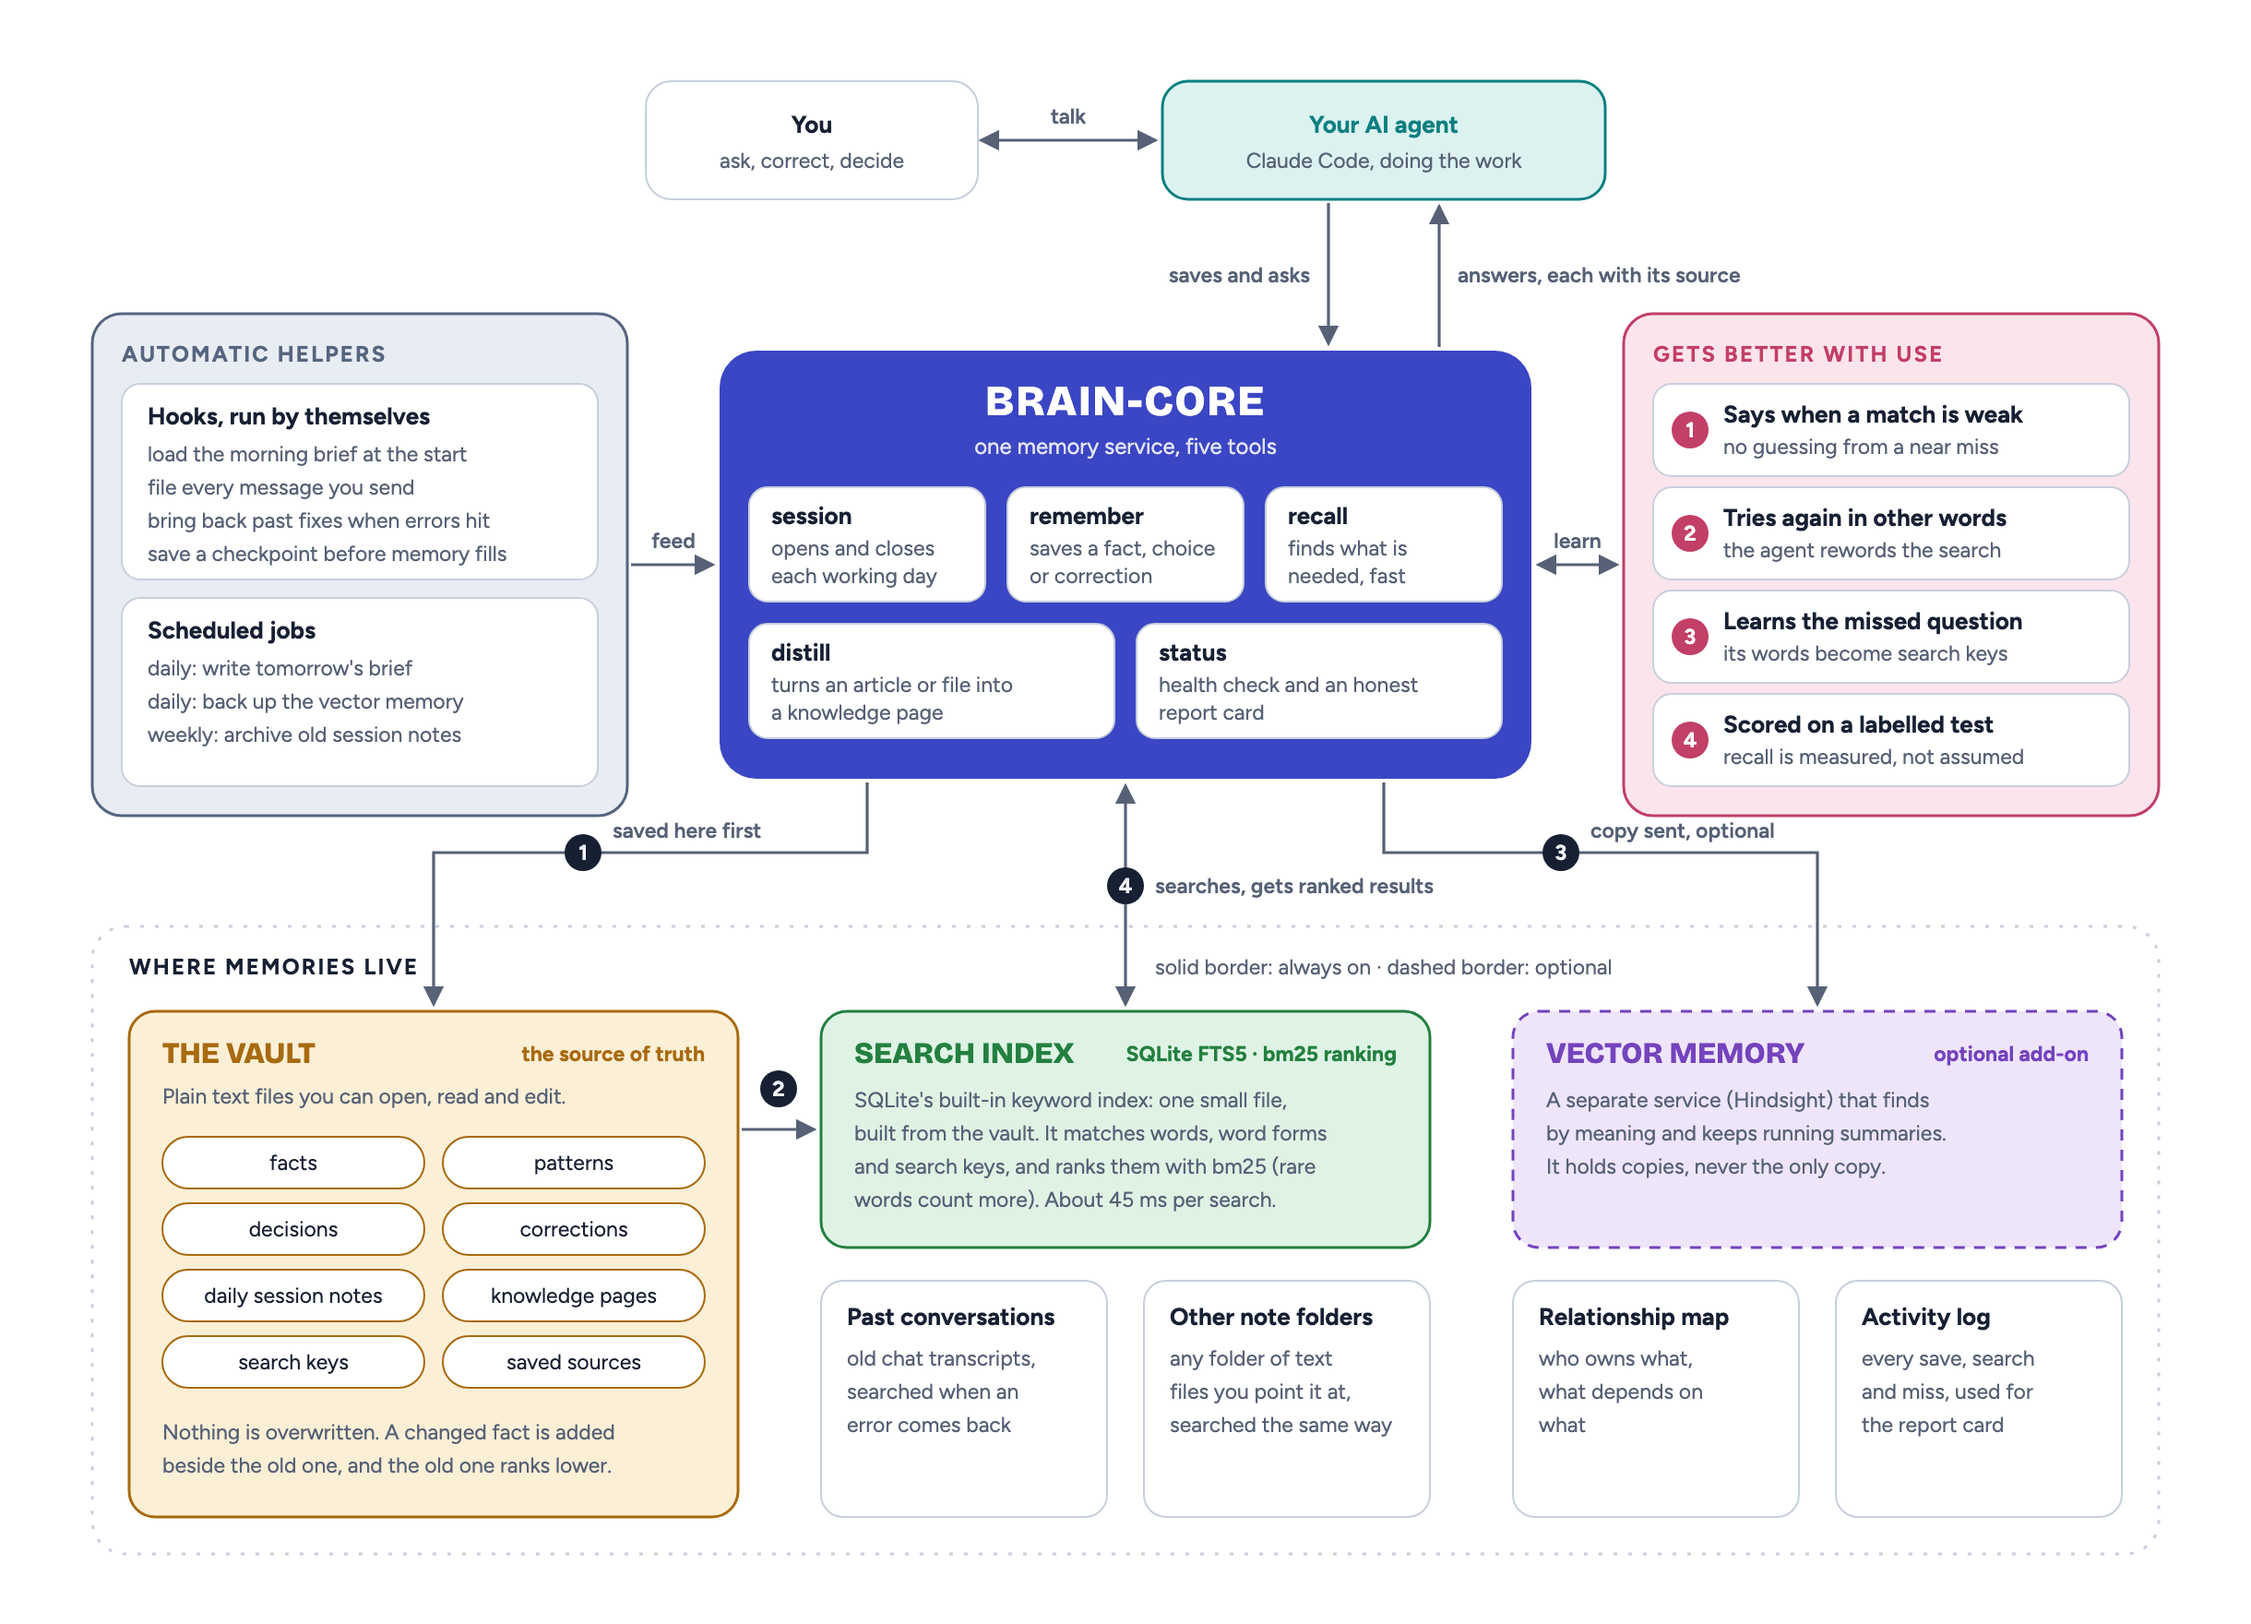
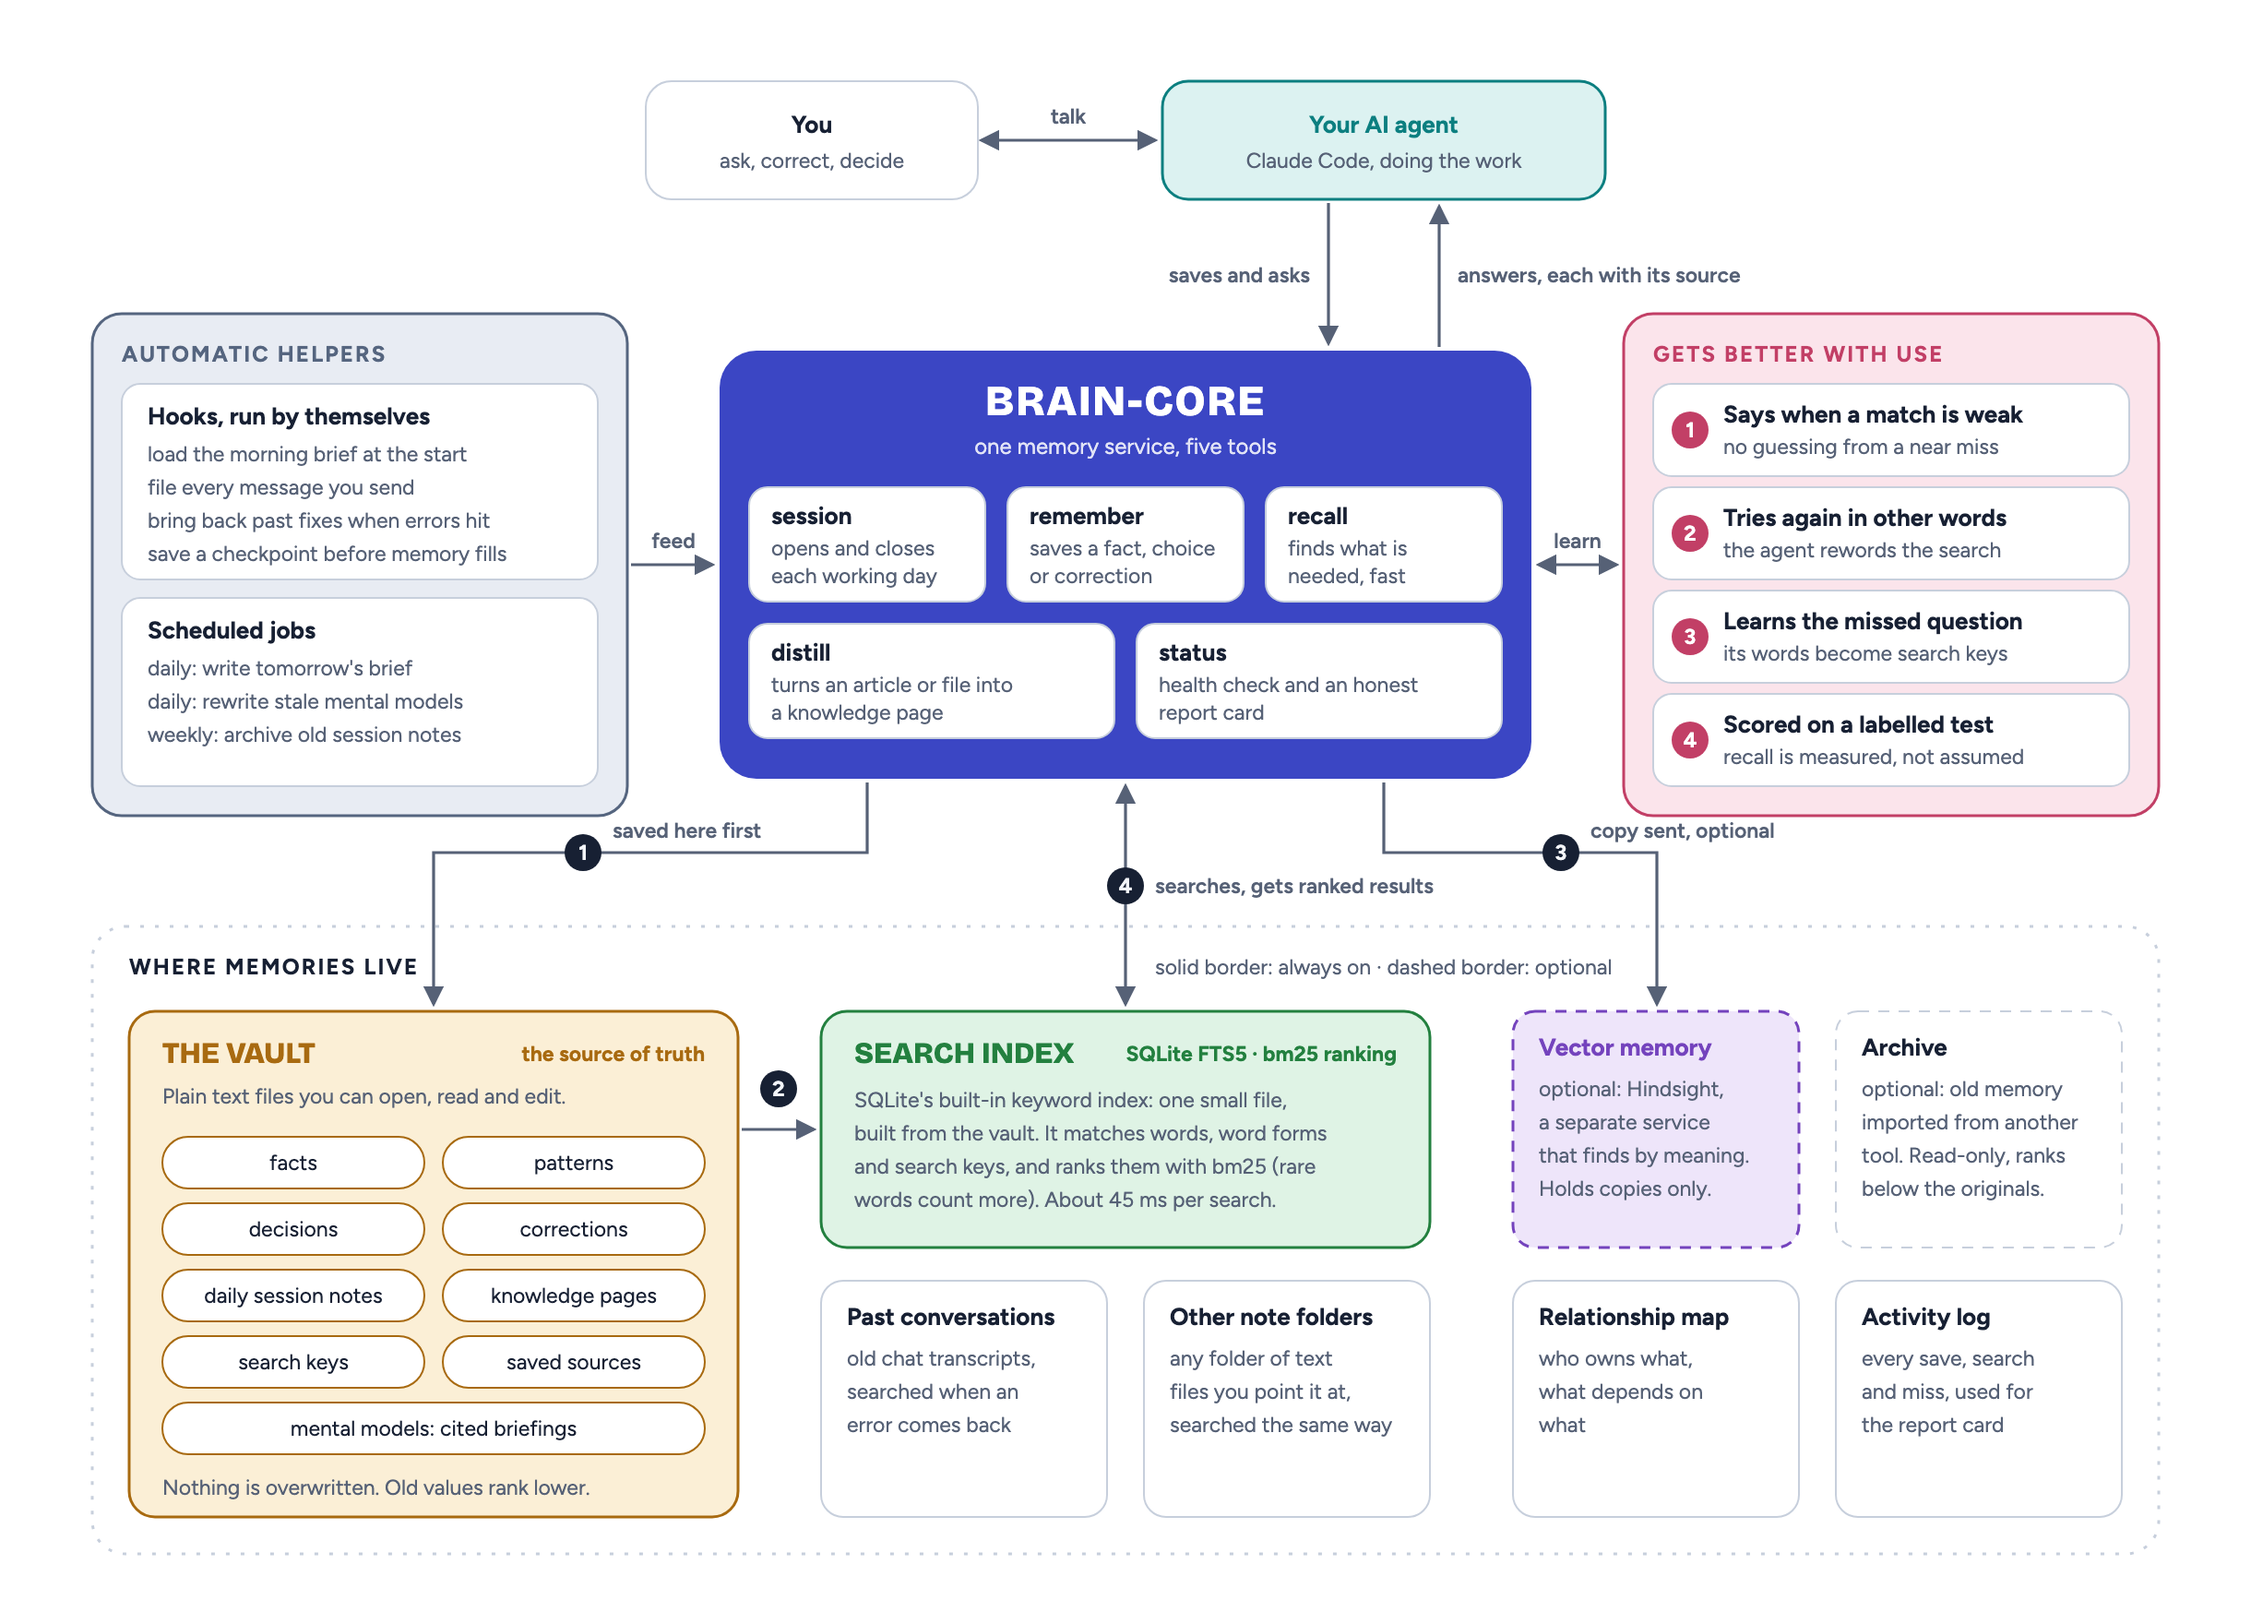
Architecture map: mental models and the archive store

Changed region(s): [[0.6852, 0.5938, 0.9656, 0.7812], [0.0623, 0.8438, 0.3115, 0.9375], [0.0934, 0.4062, 0.218, 0.4375]]

diff --git a/README.md b/README.md
@@ -70,7 +70,7 @@ brain-core is the opposite: local, five tools, markdown files you own, and an ev
 
 <picture>
   <source media="(prefers-color-scheme: dark)" srcset="docs/img/architecture-dark.png">
-  <img src="docs/img/architecture-light.png" alt="Brain-Core sits between your AI agent and its memory. The agent uses five tools. Every memory is saved to the vault of text files first, then indexed by SQLite FTS5 with bm25 ranking, then optionally copied to the Hindsight vector memory. Searches run on the index and come back with their source. Hooks and scheduled jobs feed it, and a weak-match and miss-repair loop improves it with use." width="900">
+  <img src="docs/img/architecture-light.png" alt="Brain-Core sits between your AI agent and its memory. The agent uses five tools. Every memory is saved to the vault of text files first, then indexed by SQLite FTS5 with bm25 ranking, then optionally copied to the Hindsight vector memory. Mental models, short cited briefings, are written into the vault. An optional read-only archive holds memory imported from another tool and ranks below the originals. Searches run on the index and come back with their source. Hooks and scheduled jobs feed it, and a weak-match and miss-repair loop improves it with use." width="900">
 </picture>
 
 ## Is it RAG? Yes: keyword RAG, built for an agent's brain
